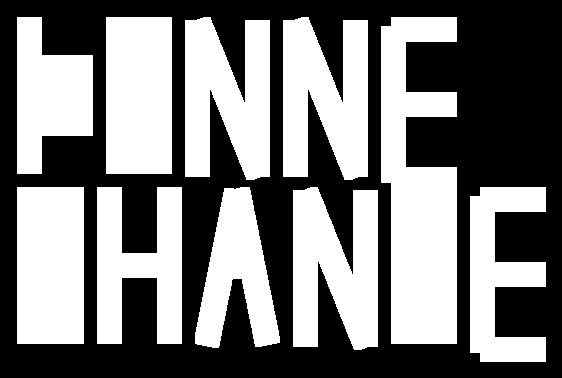
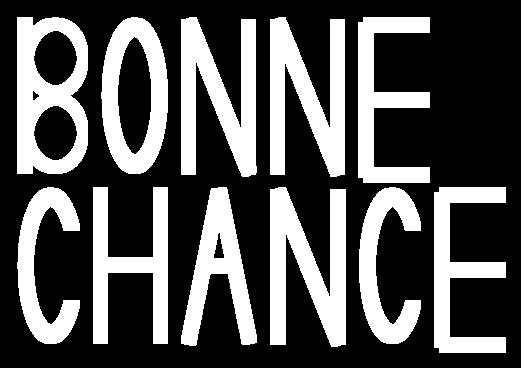
bon resultat, mais quelques tests echouent

Changed region(s): [[0.0307, 0.0299, 0.9827, 0.9565], [0.8599, 0.4783, 0.9827, 0.5082]]

diff --git a/src/main/java/Letter/LetterFactory.java b/src/main/java/Letter/LetterFactory.java
@@ -20,14 +20,14 @@ public final class LetterFactory {
         // diagonal length = sqrt(h^2 + (w/2)^2)
         Double diagonalLen = Math.sqrt(Math.pow(maxHeight, 2)+Math.pow(halfMaxWidth, 2));
 
-        Rectangle leftDiagonal = new Rectangle(diagonalLen, stripeThickness);
+        Rectangle leftDiagonal = new Rectangle(diagonalLen, halfStripeThickness);
         leftDiagonal.rotate(leftDiagonal.getCoords(), 2*Math.PI - Math.atan(maxHeight/halfMaxWidth));
 
-        Rectangle rightDiagonal = new Rectangle(diagonalLen, stripeThickness);
+        Rectangle rightDiagonal = new Rectangle(diagonalLen, halfStripeThickness);
         rightDiagonal.rotate(rightDiagonal.getCoords(), Math.atan(maxHeight/halfMaxWidth));
         rightDiagonal.translate(rightDiagonal.getCoords(), new Point2d(halfMaxWidth, 0.0));
 
-        Rectangle horizontal = new Rectangle(halfMaxWidth, stripeThickness);
+        Rectangle horizontal = new Rectangle(halfMaxWidth, halfStripeThickness);
         horizontal.translate(horizontal.getCoords(), new Point2d(halfMaxWidth/2,0.0));
 
         BaseShape A = new BaseShape();
@@ -43,13 +43,18 @@ public final class LetterFactory {
      * @return BaseShape containing the letter B
      */
     public static BaseShape create_B() {
-        Rectangle vertical = new Rectangle(stripeThickness, maxHeight);
+        Rectangle vertical = new Rectangle(halfStripeThickness, maxHeight);
 
         Ellipse upperEllipse = new Ellipse(maxWidth, halfMaxHeight);
-        upperEllipse.translate(upperEllipse.getCoords(), new Point2d(halfMaxWidth, 3/4 * maxHeight));
+        Ellipse r_inner_upperEllipse = new Ellipse(maxWidth/1.2, halfMaxHeight/1.2);
+        upperEllipse.remove(r_inner_upperEllipse);
+        upperEllipse.translate(upperEllipse.getCoords(), new Point2d(halfMaxWidth, maxHeight/4));
 
         Ellipse lowerEllipse = new Ellipse(maxWidth, halfMaxHeight);
-        lowerEllipse.translate(lowerEllipse.getCoords(), new Point2d(halfMaxWidth, 1/4 * maxHeight));
+        Ellipse r_inner_lowerEllipse = new Ellipse(maxWidth/1.2, halfMaxHeight/1.2);
+        lowerEllipse.remove(r_inner_lowerEllipse);
+        lowerEllipse.translate(lowerEllipse.getCoords(), new Point2d(halfMaxWidth, -maxHeight/4));
+
 
         BaseShape B = new BaseShape();
         B.add(vertical);
@@ -66,8 +71,15 @@ public final class LetterFactory {
     public static BaseShape create_C() {
         Ellipse ellipse = new Ellipse(maxWidth, maxHeight);
 
+        Rectangle rectangle = new Rectangle(halfMaxWidth, halfMaxHeight);
+        rectangle.translate(rectangle.getCoords(), new Point2d(halfMaxWidth/2, 0.0));
+
+        Ellipse r_innerEllipse = new Ellipse(maxWidth/1.5, maxHeight/1.2);
+
         BaseShape C = new BaseShape();
         C.add(ellipse);
+        C.remove(rectangle);
+        C.remove(r_innerEllipse);
         return C;
     }
 
@@ -76,16 +88,16 @@ public final class LetterFactory {
      * @return BaseShape containing the letter E
      */
     public static BaseShape create_E() {
-        Rectangle vertical = new Rectangle(stripeThickness, maxHeight);
+        Rectangle vertical = new Rectangle(halfStripeThickness, maxHeight);
         vertical.translate(vertical.getCoords(), new Point2d(0.0, halfMaxHeight));
 
-        Rectangle upperHorizontal = new Rectangle(maxWidth, stripeThickness);
+        Rectangle upperHorizontal = new Rectangle(maxWidth, halfStripeThickness);
         upperHorizontal.translate(upperHorizontal.getCoords(), new Point2d(halfMaxWidth, maxHeight));
 
-        Rectangle middleHorizontal = new Rectangle(maxWidth, stripeThickness);
+        Rectangle middleHorizontal = new Rectangle(maxWidth, halfStripeThickness);
         middleHorizontal.translate(middleHorizontal.getCoords(), new Point2d(halfMaxWidth, halfMaxHeight));
 
-        Rectangle lowerHorizontal = new Rectangle(maxWidth, stripeThickness);
+        Rectangle lowerHorizontal = new Rectangle(maxWidth, halfStripeThickness);
         lowerHorizontal.translate(lowerHorizontal.getCoords(), new Point2d(halfMaxWidth, 0.0));
 
         BaseShape E = new BaseShape();
@@ -102,12 +114,12 @@ public final class LetterFactory {
      * @return BaseShape containing the letter H
      */
     public static BaseShape create_H() {
-        Rectangle leftVertical = new Rectangle(stripeThickness, maxHeight);
+        Rectangle leftVertical = new Rectangle(halfStripeThickness, maxHeight);
 
-        Rectangle rightVertical = new Rectangle(stripeThickness, maxHeight);
+        Rectangle rightVertical = new Rectangle(halfStripeThickness, maxHeight);
         rightVertical.translate(rightVertical.getCoords(), new Point2d(maxWidth, 0.0));
 
-        Rectangle horizontal = new Rectangle(maxWidth, stripeThickness);
+        Rectangle horizontal = new Rectangle(maxWidth, halfStripeThickness);
         horizontal.translate(horizontal.getCoords(), new Point2d(halfMaxWidth, 0.0));
 
         BaseShape H = new BaseShape();
@@ -123,13 +135,13 @@ public final class LetterFactory {
      * @return BaseShape containing the letter N
      */
     public static BaseShape create_N() {
-        Rectangle leftVertical = new Rectangle(stripeThickness, maxHeight);
+        Rectangle leftVertical = new Rectangle(halfStripeThickness, maxHeight);
 
-        Rectangle rightVertical = new Rectangle(stripeThickness, maxHeight);
+        Rectangle rightVertical = new Rectangle(halfStripeThickness, maxHeight);
         rightVertical.translate(rightVertical.getCoords(), new Point2d(maxWidth, 0.0));
 
         Double diagonalLen = Math.sqrt(Math.pow(maxHeight, 2) + Math.pow(maxWidth, 2));
-        Rectangle diagonal = new Rectangle(diagonalLen, stripeThickness);
+        Rectangle diagonal = new Rectangle(diagonalLen, halfStripeThickness);
         diagonal.rotate(diagonal.getCoords(), Math.atan(maxHeight/maxWidth));
         diagonal.translate(diagonal.getCoords(), new Point2d(halfMaxWidth, 0.0));
 
@@ -146,10 +158,13 @@ public final class LetterFactory {
      * @return BaseShape containing the letter O
      */
     public static BaseShape create_O() {
-        Ellipse ellipse = new Ellipse(maxWidth, maxHeight);
+        Ellipse outerEllipse = new Ellipse(maxWidth, maxHeight);
+
+        Ellipse r_innerEllipse = new Ellipse(maxWidth/1.5, maxHeight/1.2);
 
         BaseShape O = new BaseShape();
-        O.add(ellipse);
+        O.add(outerEllipse);
+        O.remove(r_innerEllipse);
         return O;
     }
 

diff --git a/src/main/java/Shape/Ellipse.java b/src/main/java/Shape/Ellipse.java
@@ -11,11 +11,11 @@ public class Ellipse extends BaseShape {
      * @param heightDiameter Height of the Ellipse
      */
     public Ellipse(Double widthDiameter, Double heightDiameter) {
-        int nPointsWidth = (int)(widthDiameter/0.5);
-        int nPointsHeight = (int)(heightDiameter/0.5);
+        int nPointsWidth = (int) (widthDiameter / 0.5);
+        int nPointsHeight = (int) (heightDiameter / 0.5);
 
-        Double botLeftX = -widthDiameter/2;
-        Double botLeftY = -heightDiameter/2;
+        Double botLeftX = -widthDiameter / 2;
+        Double botLeftY = -heightDiameter / 2;
 
         Double x = botLeftX;
         Double y = botLeftY;
@@ -23,7 +23,10 @@ public class Ellipse extends BaseShape {
         for (int i = 0; i < nPointsWidth; i++) {
             for (int j = 0; j < nPointsHeight; j++) {
                 Point2d newPoint = new Point2d(x, y);
-                if ((Math.pow(x, 2)/Math.pow(widthDiameter, 2))+(Math.pow(y, 2)/Math.pow(heightDiameter, 2))<=1){
+                Double adjustedX = x / (widthDiameter / 2);
+                Double adjustedY = y / (heightDiameter / 2);
+
+                if ((Math.pow(adjustedX, 2) + Math.pow(adjustedY, 2)) <= 1) {
                     this.add(newPoint);
                 }
                 y += 0.5;
